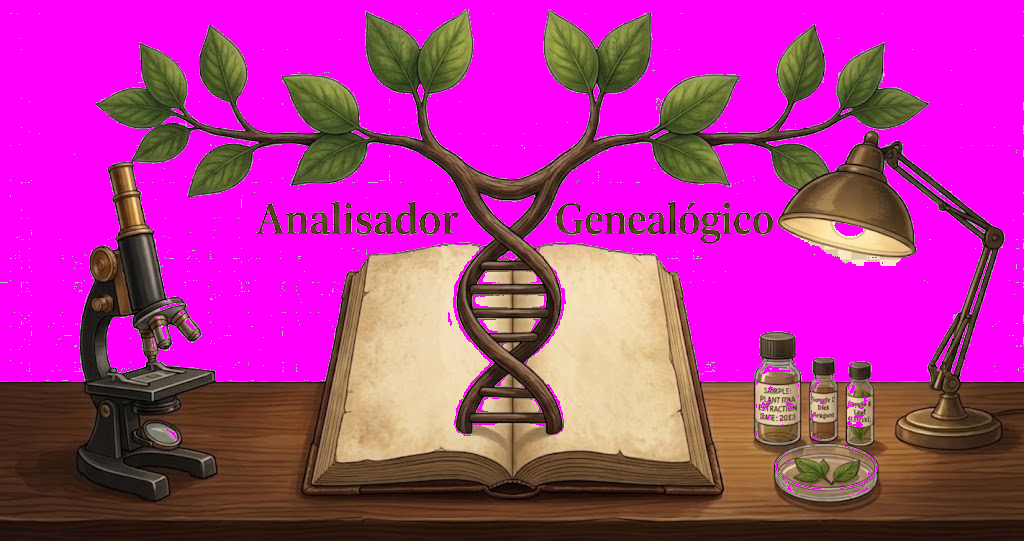
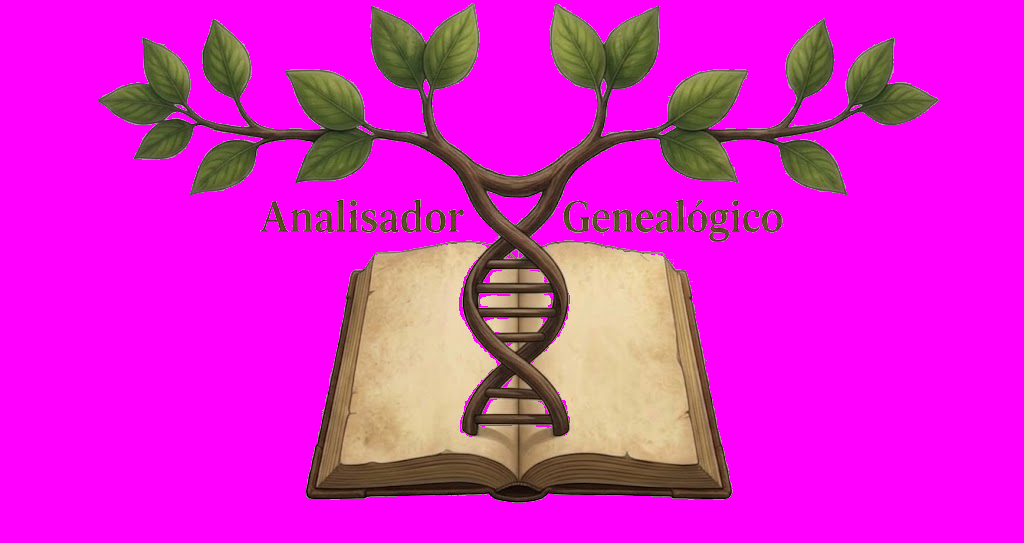
docs(reversa): registra a RN-20 e os achados da auditoria da 011

diff --git a/_reversa_forward/011-escolher-arquivo-da-lista/evidence/_verificar_correcoes.py b/_reversa_forward/011-escolher-arquivo-da-lista/evidence/_verificar_correcoes.py
@@ -68,7 +68,7 @@ for linha in linhas:
         c = [x.strip() for x in linha.strip().strip("|").split("|")]
         if len(c) == 7:
             acoes.append(c)
-conferir(len(acoes) == 40, f"40 acoes reconhecidas pelo detector (achei {len(acoes)})")
+conferir(len(acoes) == 43, f"43 acoes reconhecidas pelo detector (achei {len(acoes)})")
 marcadas = [c[0] for c in acoes if c[3].strip("`") == "[//]"]
 conferir(len(marcadas) == 24, f"24 marcadas [//] (achei {len(marcadas)})")
 

diff --git a/_reversa_forward/011-escolher-arquivo-da-lista/actions.md b/_reversa_forward/011-escolher-arquivo-da-lista/actions.md
@@ -8,7 +8,7 @@
 
 | Métrica | Valor |
 |---------|-------|
-| Total de ações | 40 |
+| Total de ações | 43 |
 | Paralelizáveis (`[//]`) | 24 |
 | Maior cadeia de dependência | 12 (`T001 → T005 → T014 → T015 → T016 → T019 → T020 → T021 → T022 → T023 → T031 → T032`) |
 
@@ -25,7 +25,7 @@
 |----|-----------|--------------|-------------|--------------|-------------|--------|
 | T001 | Rodar a suíte completa **antes de qualquer edição** e registrar a contagem obtida, com `DATABASE_URL` ausente do ambiente (a feature 012 mediu `335 passed, 9 skipped`; a contagem de agora é o que vale) | - | `[//]` | `_reversa_forward/011-escolher-arquivo-da-lista/evidence/T001-suite-antes.txt` | 🟢 | [X] |
 | T002 | Rodar a paridade pelo invólucro `tests/rodar_paridade.py` **antes de qualquer edição** e registrar o `PARIDADE … %` obtido — é a metade "antes" da premissa de §4 do roadmap | - | `[//]` | `_reversa_forward/011-escolher-arquivo-da-lista/evidence/T002-paridade-antes.txt` | 🟢 | [X] |
-| T003 | Levantar o inventário por `sha256` da pasta `src/uploads` — nome, bytes e totais — e conferir que ela está no estado que o plano supõe: **19 arquivos e 29.166.183 bytes** (`RF-08`) | - | `[//]` | `_reversa_forward/011-escolher-arquivo-da-lista/evidence/T003-inventario-antes.txt` | 🟢 | [X] |
+| T003 | Levantar o inventário por `sha256` da pasta `src/uploads` — nome, bytes e totais — e conferir que ela está no estado que o plano supõe: **19 arquivos e 29.166.183 bytes** (`RN-06`, `RN-07`, `RF-08`) | - | `[//]` | `_reversa_forward/011-escolher-arquivo-da-lista/evidence/T003-inventario-antes.txt` | 🟢 | [X] |
 | T004 | Registrar o estado do git antes de editar — `git status --porcelain` e o commit de `HEAD` — para que o "núcleo intocado" da `T026` tenha linha de base | - | `[//]` | `_reversa_forward/011-escolher-arquivo-da-lista/evidence/T004-git-antes.txt` | 🟢 | [X] |
 
 ## Fase 2, Testes
@@ -45,9 +45,9 @@
 | ID | Descrição | Dependências | Paralelismo | Arquivo alvo | Confidência | Status |
 |----|-----------|--------------|-------------|--------------|-------------|--------|
 | T012 | Declarar `listar(dono)` no `Protocol` `ArmazenamentoDeArquivos`, com o retorno tipado da entrada da lista, e atualizar o docstring do módulo — a tabela de portas passa de 2 para 3 métodos e a frase final "Nenhum metodo novo foi criado em nenhuma porta" deixa de valer (`D-01`) | T006 | `[//]` | `src/ports/__init__.py` | 🟢 | [X] |
-| T013 | Implementar `listar(dono)` em `ArmazenamentoEmDisco`, lendo **só** o nome do diretório e os atributos do arquivo — sem abrir conteúdo nenhum e sem filtrar nada — e devolvendo lista vazia quando a pasta não existe (RNF de desempenho, `D-01`, `D-07`, `D-08`) | T012 | - | `src/ports/adaptadores.py` | 🟢 | [X] |
+| T013 | Implementar `listar(dono)` em `ArmazenamentoEmDisco`, lendo **só** o nome do diretório e os atributos do arquivo — sem abrir conteúdo nenhum e sem filtrar nada — e devolvendo lista vazia quando a pasta não existe (RNF de desempenho, `RN-09`, `D-01`, `D-07`, `D-08`) | T012 | - | `src/ports/adaptadores.py` | 🟢 | [X] |
 | T014 | Acrescentar a `src/utils/validate.py` a decomposição do nome armazenado em `(chave, nome visível)`, **reusando** `_FORMATO_CHAVE` em vez de escrever um segundo padrão para a mesma regra (`D-02`) | T005 | `[//]` | `src/utils/validate.py` | 🟢 | [X] |
-| T015 | Escrever a função pura de apresentação em `src/reporting/lista_de_arquivos.py`: **seleciona pela extensão do nome visível** (`RN-03`, `D-10`), agrupa pela chave, marca o arquivo sem chave como item próprio, calcula contagem e tamanho, **decide o alcance de cada item com `chave_recebida_e_valida` — a mesma função que o resolvedor aplica — e deriva o motivo quando o item não é alcançável**, e ordena por data decrescente (`RN-01`, `RN-02`, `RN-03`, `RN-10`, `RN-11`, `D-10`, `D-11`, RNF de desempenho) | T014 | - | `src/reporting/lista_de_arquivos.py` | 🟢 | [X] |
+| T015 | Escrever a função pura de apresentação em `src/reporting/lista_de_arquivos.py`: **seleciona pela extensão do nome visível** (`RN-03`, `D-10`), agrupa pela chave, marca o arquivo sem chave como item próprio, calcula contagem e tamanho, **decide o alcance de cada item com `chave_recebida_e_valida` — a mesma função que o resolvedor aplica — e deriva o motivo quando o item não é alcançável**, e ordena por data decrescente (`RN-01`, `RN-02`, `RN-03`, `RN-10`, `RN-11`, `RF-01`, `RF-03`, `D-10`, `D-11`, RNF de desempenho) | T014 | - | `src/reporting/lista_de_arquivos.py` | 🟢 | [X] |
 | T016 | Aplicar na mesma função a regra do **nome exibido sem chave vazada** quando o grupo tem nomes visíveis diferentes — o caso medido da chave `080e7943572d2652` (`D-09`) | T015 | - | `src/reporting/lista_de_arquivos.py` | 🟢 | [X] |
 
 ## Fase 4, Integração
@@ -56,8 +56,8 @@
 |----|-----------|--------------|-------------|--------------|-------------|--------|
 | T017 | O `GET /` monta as duas listas a partir da porta e as entrega ao template no contexto — sem `os.listdir` na rota e sem remover nenhuma variável de contexto existente (`D-01`, `D-04`, `RF-06`) | T015 | `[//]` | `src/app.py` | 🟢 | [X] |
 | T018 | O ramo `dna_analysis` passa a aceitar `matches_csv_filename`, com a referência tendo **precedência** sobre o arquivo e o caminho antigo intocado quando ela não vem (`D-03`, `RN-04`, `RF-04`) | T017, T009 | - | `src/app.py` | 🟢 | [X] |
-| T019 | O ramo `{% if not gedcom_filename %}` deixa de ser formulário de envio e passa a renderizar as duas abas com as listas, com o envio movido para dentro de cada aba (`D-04`, `RF-06`) | T007, T010, T011, T016 | `[//]` | `src/templates/index.html` | 🟢 | [X] |
-| T020 | Cada item das duas listas exibe nome visível, tamanho, data e a contagem do grupo; o item sem chave traz a marca de que é anterior à chave por conteúdo, e o item **não alcançável por referência** traz a marca de **indisponível**, com o motivo, sem que a escolha seja oferecida como se fosse funcionar (`RN-02`, `RN-10`, `RN-11`, `RF-09`, `D-09`, `D-11`) | T019 | - | `src/templates/index.html` | 🟢 | [X] |
+| T019 | O ramo `{% if not gedcom_filename %}` deixa de ser formulário de envio e passa a renderizar as duas abas com as listas, com o envio movido para dentro de cada aba (`RF-01`, `RF-03`, `D-04`, `RF-06`) | T007, T010, T011, T016 | `[//]` | `src/templates/index.html` | 🟢 | [X] |
+| T020 | Cada item das duas listas exibe nome visível, tamanho, data e a contagem do grupo; o item sem chave traz a marca de que é anterior à chave por conteúdo, e o item **não alcançável por referência** traz a marca de **indisponível**, com o motivo, sem que a escolha seja oferecida como se fosse funcionar (`RN-02`, `RN-10`, `RN-11`, `RF-01`, `RF-03`, `RF-09`, `D-09`, `D-11`) | T019 | - | `src/templates/index.html` | 🟢 | [X] |
 | T021 | A aba de DNA ganha o campo de escolha que preenche `matches_csv_filename`, mantendo o envio de arquivo como a outra via de entrada (`RN-04`, `D-03`) | T020 | - | `src/templates/index.html` | 🟢 | [X] |
 | T022 | O estado vazio de cada aba orienta o envio de um arquivo e não falha (`RF-07`, `D-07`) | T008, T021 | - | `src/templates/index.html` | 🟢 | [X] |
 
@@ -67,10 +67,10 @@
 |----|-----------|--------------|-------------|--------------|-------------|--------|
 | T023 | Rodar a suíte **depois** e registrar a contagem, comparando com a linha de base da `T001` — é a metade "depois" que sustenta "não houve regressão" | T018, T022 | `[//]` | `_reversa_forward/011-escolher-arquivo-da-lista/evidence/T023-suite-depois.txt` | 🟢 | [X] |
 | T024 | Rodar a paridade pelo invólucro **depois** da mudança de template e registrar o resultado, que tem de ser `PARIDADE 100 %` (premissa de §4 e risco de §9 do roadmap) | T018, T022 | `[//]` | `_reversa_forward/011-escolher-arquivo-da-lista/evidence/T024-paridade-depois.txt` | 🟢 | [X] |
-| T025 | Levantar o inventário por `sha256` **depois** de percorrer as duas abas e o envio, e comparar com o da `T003`: idêntico (`RF-08`) | T018, T022 | `[//]` | `_reversa_forward/011-escolher-arquivo-da-lista/evidence/T025-inventario-depois.txt` | 🟢 | [X] |
+| T025 | Levantar o inventário por `sha256` **depois** de percorrer as duas abas e o envio, e comparar com o da `T003`: idêntico (`RN-06`, `RN-07`, `RF-08`) | T018, T022 | `[//]` | `_reversa_forward/011-escolher-arquivo-da-lista/evidence/T025-inventario-depois.txt` | 🟢 | [X] |
 | T026 | Provar que o núcleo não foi tocado: `git diff -- src/core src/parsers src/application` **vazio**, contra o estado registrado na `T004` | T018, T022 | `[//]` | `_reversa_forward/011-escolher-arquivo-da-lista/evidence/T026-nucleo-intocado.txt` | 🟢 | [X] |
 | T027 | Provar que o golden `SCR-001` **não** foi alterado, pelo `git status` de `_reversa_sdd/screens/golden/` e pelo `sha256` do arquivo — é a execução do `D-05` | T018, T022 | `[//]` | `_reversa_forward/011-escolher-arquivo-da-lista/evidence/T027-golden-intocado.txt` | 🟢 | [X] |
-| T028 | Atualizar o `README.md`: a tela de entrada descrita deixa de existir, e as listas das duas abas entram no lugar dela (RNF de documentação) | T018, T022 | `[//]` | `README.md` | 🟢 | [ ] |
+| T028 | Atualizar o `README.md`: a tela de entrada descrita deixa de existir, e as listas das duas abas entram no lugar dela (RNF de documentação) | T018, T022 | `[//]` | `README.md` | 🟢 | [X] |
 | T029 | Escrever o `legacy-impact.md` registrando que a aplicação atual deixa de ter o estado inicial do legado, e o que isso significa para o pipeline de migração que ancorou cenários em `SCR-001` (`D-06`) | T018, T022 | `[//]` | `_reversa_forward/011-escolher-arquivo-da-lista/legacy-impact.md` | 🟢 | [X] |
 | T030 | Escrever o `regression-watch.md` com os itens de vigilância, o que cada um vigia e o sintoma que o dispara | T018, T022 | `[//]` | `_reversa_forward/011-escolher-arquivo-da-lista/regression-watch.md` | 🟢 | [X] |
 | T031 | Revisar o `onboarding.md` desta feature e preencher a tabela de resultados medidos com o que cada passo efetivamente produziu | T023, T024, T025, T027 | - | `_reversa_forward/011-escolher-arquivo-da-lista/onboarding.md` | 🟢 | [X] |
@@ -83,6 +83,9 @@
 | T038 | A regra do reenvio (`RN-17`) passa a valer tambem para o **CSV**, que entra pelo formulario de analise: a decisao e EXTRAIDA para `application/reenvio.py`, para nao haver duas verdades sobre a mesma regra, e o aviso da substituicao acompanha a mensagem do resultado sem substitui-la | T037 | - | `src/application/reenvio.py`, `src/app.py` | 🟢 | [X] |
 | T039 | A mensagem de conteudo recusado vira **uma frase fixa** ("Arquivo não reconhecido como GEDCOM. Favor, enviar o arquivo correto."), sem o motivo tecnico dentro; o motivo continua na excecao (`RN-18`) | T014 | - | `src/application/traducao.py` | 🟢 | [X] |
 | T040 | A tela da arvore escolhida ganha o **caminho de volta** (`<a href="/">`, um GET) e passa a dizer **qual arvore esta aberta**, pelo nome visivel, sem a chave (`RN-19`) | T019 | - | `src/templates/index.html`, `src/app.py` | 🟢 | [X] |
+| T041 | Conserto de RAIZ do `BUG-20261009-6RKP`: `chave_recebida_e_valida` deixa de exigir o alfabeto fechado e passa a exigir que a referencia seja um **NOME** (o mesmo criterio de `referencia_de_arquivo_da_pasta`), aceitando acento e espaco que o gravador produz (`RF-06`, `RN-20`) | T014 | - | `src/utils/validate.py` | 🟢 | [X] |
+| T042 | Conserto do `A008`: o parse de `_arvore_do_formulario` ganha guarda, o traceback vai para o LOG e a tela devolve mensagem; as duas mensagens de erro passam a usar o rotulo, e nao a referencia com a chave (`D-09`) | T018 | - | `src/app.py` | 🟢 | [X] |
+| T043 | A arte do topo passa a ser a **composicao nova** enviada pelo operador (arvore, livro e texto), e a remocao do quadriculado gravado ganha **duas faixas de brilho**: teto de saturacao largo acima de 190 e estreito entre 160 e 190, para o preenchimento claro do texto nao virar buraco | T036 | - | `tests/banner_da_tela.py`, `docs/assets/img/banner-analisador.png` | 🟢 | [X] |
 
 ## Notas de execução
 
@@ -143,6 +146,11 @@
 | 2026-10-09 | Versão inicial gerada por `/reversa-to-do` | reversa |
 | 2026-10-09 | Correção vinda do `/reversa-audit`: `RN-03`/`D-10` citados em `T005` e `T015` (`A001`); `D-08` citado em `T013` e o caso negativo entrou na `T010` (`A002`); `domain.md` §4 declarado na `T032` (`A003`) | reversa |
 | 2026-10-09 | Correção vinda do `/reversa-audit` (`A007`, `CRITICAL`): `T005`, `T015` e `T020` passam a cobrir o **item indisponível** (`RN-11`, `RF-09`, `D-11`). Nenhum ID novo, nenhuma dependência nova — as contagens do resumo seguem 32 / 22 / 12 | reversa |
+| 2026-10-10 | **`T028` FECHADO, e a premissa dele era falsa.** A ação dizia que "a tela de entrada descrita deixa de existir", mas o `README` **nunca a descreveu**: ele trata de arquitetura, caminho do dado, pasta canônica, configuração e árvore de arquivos. Não havia o que corrigir, e sim o que **acrescentar** — que é o que foi feito: a seção `## A tela de entrada`, com as duas abas, a tabela de arquivos, os botões, os três desfechos do envio, o caminho de volta e as mensagens de recusa, mais uma referência a `_aposentados/` na seção de pastas. Nêmhuma linha de código mudou | reversa |
+| 2026-10-10 | Correção das três da auditoria: `A004` (a dívida 8 não é propriedade deliberada), `A005` (`RN-23` fixa os rótulos literais das abas) e `A006` (os IDs `RN-06`, `RN-07`, `RN-09`, `RF-01` e `RF-03` passam a ser citados nas ações que os cobrem). **Nenhuma linha de código mudou** | reversa |
+| 2026-10-10 | `T043` acrescentada: a arte do topo troca de composicao e a remocao de fundo passa a usar duas faixas de brilho. Total 42 → 43. Dois defeitos MEDIDOS na mesma receita: o limite de brilho em 190 cortava no meio do cinza do fundo (185..194) e deixava 22.275 px de chuvisco; e o teto de saturacao largo na faixa escura deixava o texto dourado OCO. Os dois foram vistos no composto sobre magenta, nao na metrica | reversa |
+| 2026-10-10 | `T042` acrescentada: **conserto do `A008`** (`MEDIUM`), o unico item pendente que produzia `500` com traceback na tela do operador. Total 41 → 42. O `A008` dizia "nao alcancavel com os 19 arquivos de hoje"; medido agora, o caminho de CLIQUE nao chega la, mas a REQUISICAO chega, e **10 dos 13 arquivos da pasta real** derrubavam o parser | reversa |
+| 2026-10-10 | `T041` acrescentada: **conserto de raiz** do `BUG-20261009-6RKP`, decidido pelo operador ("o código cede"). Total 40 → 41. A defesa contra escape NÃO era o alfabeto fechado, e sim a exigência de a referência ser um NOME: os cinco casos do `BUG-20260929-QMLY` continuam recusados, e há teste para cada um | reversa |
 | 2026-10-10 | `T040` acrescentada por **pergunta do operador** ("como voltar para a tela inicial?"). Total 39 → 40. Medido antes de decidir: a tela de busca tinha ZERO `<a href>` e nao dizia qual arvore estava aberta. Escolhido LINK e nao `action`, para nao passar pelo despacho da rota | reversa |
 | 2026-10-10 | `T039` acrescentada por **pedido do operador**: mensagem unica para conteudo recusado (`RN-18`). Total 38 → 39. Custo DECLARADO: as tres recusas (vazio, byte nulo, sem cabecalho) passam a ter o mesmo texto, e o operador perde a pista de qual foi; o motivo continua dentro da excecao | reversa |
 | 2026-10-10 | `T038` acrescentada por **pedido do operador**: a `RN-17` vale tambem para o CSV. Total 37 → 38; paralelizáveis seguem 24. A regra foi EXTRAÍDA para `application/reenvio.py` em vez de copiada para o ramo da rota: copiar criaria duas verdades sobre a mesma decisão | reversa |

diff --git a/_reversa_forward/011-escolher-arquivo-da-lista/requirements.md b/_reversa_forward/011-escolher-arquivo-da-lista/requirements.md
@@ -28,10 +28,16 @@ Nada é apagado, renomeado ou alterado por esta feature.
 | `_reversa_sdd/upload-gedcom/contracts.md#1.1` | O contrato da requisição: rota única com despacho por `action` e `enctype` de formulário | 🟢 |
 | `_reversa_sdd/analise-dna/contracts.md#1.1` | Hoje o CSV entra **na requisição da análise**; escolher de uma lista cria uma referência que precisa viajar entre requisições | 🟢 |
 | `_reversa_sdd/user-stories/upload-gedcom.md#us-u-04--continuidade-entre-requisições` | A continuidade é história de usuário declarada, não detalhe de implementação | 🟢 |
-| `_reversa_sdd/architecture.md#7` | Dívida 8: "nada é persistido entre requisições" — propriedade deliberada, que esta feature não pode quebrar | 🟢 |
+| `_reversa_sdd/architecture.md#7` | Dívida 8: "nada é persistido entre requisições". O artefato dá a ela gravidade **🟡 Média** e registra que **não há decisão de negócio** sobre isso. Esta feature **não** a quebra — e **não** a promove a propriedade deliberada, que é o que a `A004` da auditoria corrigiu | 🟢 |
 | `_reversa_sdd/inventory.md#4` | A pasta de upload é resolvida por `ANALISADOR_UPLOAD_FOLDER` e é a fonte da lista | 🟢 |
 | `_reversa_sdd/screens/golden/SCR-001-initial-upload.html.txt` | O golden da tela de entrada — **do oráculo legado congelado**, não da aplicação atual. Medido no plano: a mudança do `GET /` **não** o invalida; o que fica é uma divergência declarada | 🟢 |
 | `_reversa_forward/010-uploads-fora-do-repositorio/onboarding.md#16` | A pasta canônica está fora do repositório e tem duas cópias idênticas de 36 arquivos | 🟢 |
+> **Vocabulário, fixado pela `A005` da auditoria.** Os rótulos literais das abas — **"Buscar Conexão no
+> GEDCOM"** e **"Analisador de DNA"** — são **texto de contrato congelado** (`RN-22`), e há teste que os
+> prende no corpo da resposta. Ao longo deste plano, "aba de árvore" e "aba de DNA" são **apelidos
+> internos** para essas duas abas, e não rótulos alternativos: onde o plano diz "aba de árvore", leia-se a
+> aba cujo rótulo na tela é "Buscar Conexão no GEDCOM".
+
 | Medição desta feature (2026-10-09) | Na pasta canônica: **36 arquivos**, dos quais **19 `.csv`**, **16 `.ged`** e **1 `.xlsx`**. Aplicando a regra de agrupar pela chave do nome: a aba de árvore dá **15 itens para 16 arquivos** e a de DNA dá **19 itens para 19 arquivos** — o agrupamento quase não reduz. Dos 36, **18 são resíduo de instrumento** (9 na aba de árvore, 9 na de DNA), e é a remoção deles que leva as abas a 7 e 10 arquivos. **3 arquivos não têm chave no nome** (`Adriano_Santos.ged`, `Arvore_Unificada_Oficial_V1_2.ged` e `Famílias_Sergipanas.csv`), e o `.xlsx` não aparece em aba nenhuma | 🟢 |
 
 ## 3. Personas e cenários de uso
@@ -63,8 +69,11 @@ Nada é apagado, renomeado ou alterado por esta feature.
    - Tipo: **alterada** para o CSV (o contrato da árvore não muda)
 5. **RN-05:** A lista é lida do disco no momento de renderizar a tela; **nada** é mantido em memória entre
    requisições. 🟢
-   - Origem no legado: `_reversa_sdd/architecture.md#7` (dívida 8) — propriedade preservada
-   - Tipo: **preservada** — confirmada na §9: a escolha do operador também **não** sobrevive ao fechamento
+   - Origem no legado: `_reversa_sdd/architecture.md#7` (dívida 8) — gravidade **🟡 Média**, e o artefato
+     registra que **não há decisão de negócio** sobre isso. "Preservada" aqui significa **não piorada por
+     esta feature**, e não propriedade deliberada do projeto: a `A004` da auditoria corrigiu a
+     qualificação, que atribuía ao artefato uma intenção que ele não declara
+   - Tipo: **preservada** — confirmado na §9: a escolha do operador também **não** sobrevive ao fechamento
      da página
 6. **RN-06:** Escolher um arquivo não o altera, não o copia e não cria arquivo novo. 🟢
    - Origem no legado: `_reversa_sdd/upload-gedcom/contracts.md#2.2`

diff --git a/_reversa_sdd/addenda/011-escolher-arquivo-da-lista.md b/_reversa_sdd/addenda/011-escolher-arquivo-da-lista.md
@@ -47,6 +47,9 @@ tres contratos ao mesmo tempo. O nucleo nao e tocado.
 | `RN-17` | O reenvio de um arquivo tem **tres desfechos distintos**, e nao mais uma resposta unica: **identico** (mesmo nome e mesmo conteudo) avisa que ja estava armazenado e nao grava nada; **atualizado** (mesmo nome, conteudo diferente) **substitui** — a versao anterior e **aposentada** para `<pasta>/_aposentados/`, nunca apagada (`RN-07`), e a lista fica com uma linha; **novo** mantem o literal congelado `Arquivo '...' carregado!`. A identidade do "mesmo arquivo" e o **nome visivel completo**, como o operador o escreveu — um `arvore.csv` **nao** e substituido por um envio de `arvore.ged` | **pedido do operador em 2026-10-10** |
 | `RN-18` | O conteudo recusado tem **uma frase fixa**: `Arquivo nao reconhecido como GEDCOM. Favor, enviar o arquivo correto.` O motivo tecnico do validador (`arquivo vazio`, `conteudo binario`, `nao comeca com a declaracao 0 HEAD`) **nao vai para a tela**. Custo declarado: as tres recusas passam a ter o mesmo texto, e o operador perde a pista de qual foi. O motivo **nao se perdeu** — continua dentro de `GedcomNaoSuportado`, que o carrega desde a feature 006 (`A002`); so a apresentacao deixou de exibi-lo | **pedido do operador em 2026-10-10** |
 | `RN-19` | A tela da arvore escolhida oferece o **caminho de volta** — `<a href="/">`, um `GET`, e **nao** uma `action` — e diz **qual arvore esta aberta** pelo nome visivel, sem a chave (`D-09`). Antes desta regra a tela tinha **zero** `<a href>`: a unica saida era recarregar ou digitar o endereco. O link, e nao uma `action`, porque nao passa pelo despacho da rota e por isso nao corre o risco de cair no `render_template` do fim e descartar o estado — defeito ja medido no `selecionar_arvore` | **pergunta do operador em 2026-10-10** |
+| `RN-20` | A referencia de um arquivo armazenado e aceita quando e um **NOME** com o prefixo de 16 hexadecimais da chave — e **nao** quando pertence a um alfabeto fechado. O resolvedor passa a aceitar **acento e espaco**, que o gravador sempre preservou (`RF-06`), fechando a contradicao que tornava 7 arquivos inalcancaveis. A defesa contra escape **nao era o alfabeto**, e sim a exigencia de ser um NOME: os cinco casos do `BUG-20260929-QMLY` continuam recusados por construcao | **decisao do operador em 2026-10-10** ("o codigo cede"), conserto de raiz do `BUG-20261009-6RKP` |
+| `RN-21` | Arquivo **alcancado pela referencia** cujo conteudo o parser nao consegue ler responde **mensagem na tela**, com o rotulo do arquivo e sem a chave (`D-09`), e **nunca** `500` com traceback; o rastro vai para o **log**. O arquivo **nao e removido nem escondido**: a lista nao filtra por conteudo (`D-08`), e o operador precisa poder apaga-lo | **conserto do `A008` em 2026-10-10**, depois de medir que **10 dos 13 arquivos da pasta real** derrubavam o parser pela rota |
+| `RN-22` | Os rotulos literais das abas sao **texto de CONTRATO** e nao mudam: **"Buscar Conexao no GEDCOM"** e **"Analisador de DNA"**. "Aba de arvore" e "aba de DNA" sao **apelidos internos do plano** para essas duas abas, e nao rotulos alternativos — o plano usava os dois vocabularios sem declarar qual era o vinculante | **correcao da `A005` da auditoria em 2026-10-10** |
 | `RF-09` | A lista marca o item inalcancavel, com o motivo, sem esconde-lo | idem |
 
 ## 4. Divergencias declaradas
